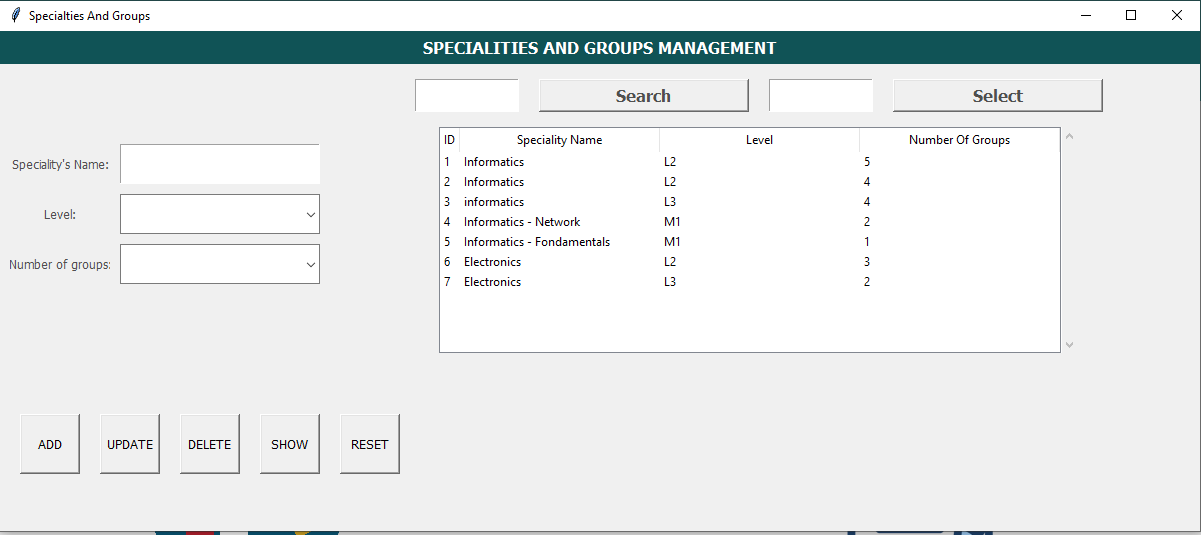
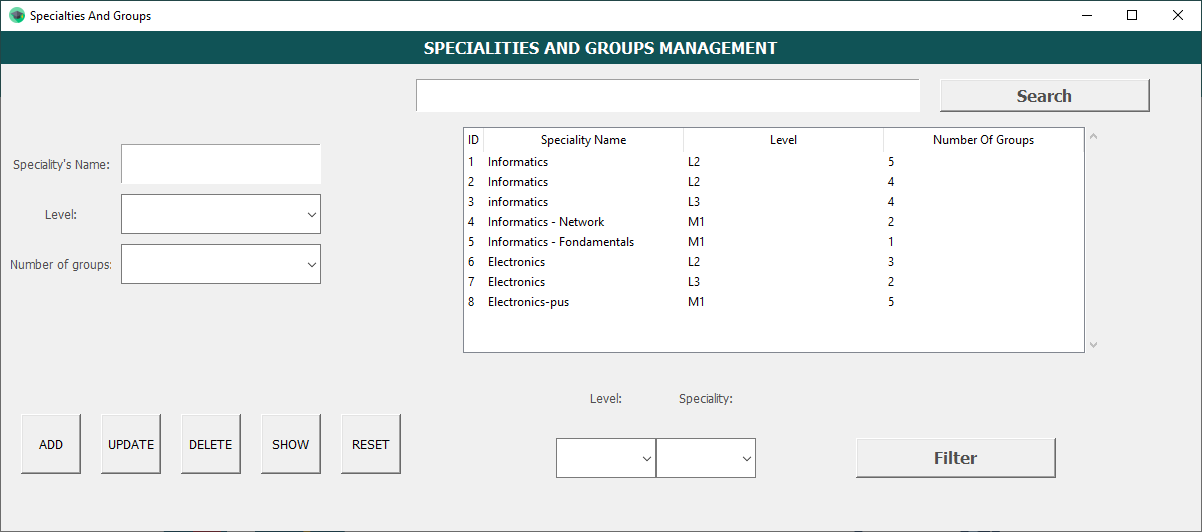
database output relations

diff --git a/exam.py b/exam.py
@@ -80,15 +80,36 @@ class exam:
         self.time = StringVar()
 
 
+        mydb=mc.connect(
+                host='localhost',
+                user='root',
+                password='',
+                database='university'
+        )
+        mycursor=mydb.cursor()
+        sql="SELECT specialityname FROM speciality"
+        mycursor.execute(sql)
+        specialityvalues=mycursor.fetchall()
+        specialityvalues=list(set(specialityvalues))
+
+        mycursor1=mydb.cursor()
+        sql1="SELECT CONCAT(firstname,' ', lastname) FROM staff where job = 'Professor' OR job= 'Professor-grade1' OR  job='Professor-grade2'"
+        mycursor1.execute(sql1)
+        staffvalues=mycursor1.fetchall()
+        staffvalues=list(set(staffvalues))
+        staffvalues = [str(element).replace("(", "").replace(")", "").replace("'", "").replace(",", "") for element in staffvalues]
+        
+
+
 
         ####################   ENTRIES    ######################
-        self.SpecialityEntry = ttk.Combobox(self.frameleft, values=["S1","S2","S3"],state='readonly', textvariable=self.speciality)
+        self.SpecialityEntry = ttk.Combobox(self.frameleft, values=specialityvalues,state='readonly', textvariable=self.speciality)
         self.SpecialityEntry.place(x=170, y=30, width=200, height=40)
 
         self.LevelEntry = ttk.Combobox(self.frameleft, values=["L1","L2","L3","M1","M2","Phd"],state='readonly', textvariable=self.level)
         self.LevelEntry.place(x=170, y=80, width=200, height=40)
 
-        self.GroupEntry = Entry(self.frameleft, fg='#4F4F4F', font=('tahoma', 9), textvariable=self.group)
+        self.GroupEntry = ttk.Combobox(self.frameleft,values=["1","2","3"],state='readonly', textvariable=self.group)
         self.GroupEntry.place(x=170, y=130, width=200, height=40)
         
         self.ClassroomEntry = Entry(self.frameleft, fg='#4F4F4F', font=('tahoma', 9), textvariable=self.classroom)
@@ -97,10 +118,10 @@ class exam:
         self.ModuleEntry = Entry(self.frameleft, fg='#4F4F4F', font=('tahoma', 9), textvariable=self.module)
         self.ModuleEntry.place(x=170, y=230, width=200, height=40)
         
-        self.ProfEntry = Entry(self.frameleft, fg='#4F4F4F', font=('tahoma', 9), textvariable=self.prof)
+        self.ProfEntry = ttk.Combobox(self.frameleft, values=staffvalues,state='readonly', textvariable=self.prof)
         self.ProfEntry.place(x=170, y=280, width=200, height=40)
 
-        self.ResProfEntry = Entry(self.frameleft, fg='#4F4F4F', font=('tahoma', 9), textvariable=self.resposibleprof)
+        self.ResProfEntry = ttk.Combobox(self.frameleft, values=staffvalues,state='readonly', textvariable=self.resposibleprof)
         self.ResProfEntry.place(x=170, y=330, width=200, height=40)
         
         self.DateEntry = DateEntry(self.frameleft ,textvariable=self.date, date_pattern="yyyy-mm-dd",mindate=datetime.date.today())
@@ -109,6 +130,10 @@ class exam:
         self.TimeEntry = ttk.Combobox(self.frameleft, values=["", "8:00", "9:00", "10:00","11:00","12:00","13:00","14:00","15:00","16:00","17:00"],
                                       state='readonly', textvariable=self.time)
         self.TimeEntry.place(x=170, y=430, width=200,height=30)
+
+
+        mydb.commit()
+        mydb.close()
 
 
 

diff --git a/student.py b/student.py
@@ -69,6 +69,22 @@ class student:
         self.speciality = StringVar()
         self.group = StringVar()
 
+        mydb=mc.connect(
+                host='localhost',
+                user='root',
+                password='',
+                database='university'
+        )
+        mycursor=mydb.cursor()
+        sql="SELECT specialityname FROM speciality"
+        mycursor.execute(sql)
+        specialityvalues=mycursor.fetchall()
+        specialityvalues=list(set(specialityvalues))
+        specialityvalues = [str(element).replace("(", "").replace(")", "").replace("'", "").replace(",", "") for element in specialityvalues]
+
+
+
+
 
 
         #################   ENTRIES #######################
@@ -91,11 +107,15 @@ class student:
         self.LevelEntry = ttk.Combobox(self.frameleft, values=["L1","L2","L3","M1","M2","Phd"],state='readonly',textvariable=self.level)
         self.LevelEntry.place(x=120, y=300, width=200, height=40)
 
-        self.SpecialityEntry = ttk.Combobox(self.frameleft, values=["S1","S2","S3"],state='readonly',textvariable=self.speciality)
+        self.SpecialityEntry = ttk.Combobox(self.frameleft, values=specialityvalues,state='readonly',textvariable=self.speciality)
         self.SpecialityEntry.place(x=120, y=350, width=200, height=40)
 
         self.GroupEntry = ttk.Combobox(self.frameleft,values=["1","2","3"],state='readonly',textvariable=self.group)
         self.GroupEntry.place(x=120,y=400,width=200,height=40)
+
+
+        mydb.commit()
+        mydb.close()
 
 
 
@@ -199,7 +219,7 @@ class student:
         self.LevelEntrySelect = ttk.Combobox(self.framerightbuttom, values=["L1","L2","L3","M1","M2","Phd"],state='readonly',textvariable=self.levelselect)
         self.LevelEntrySelect.place(x=150, y=80, width=100, height=40)
 
-        self.SpecialityEntrySelect = ttk.Combobox(self.framerightbuttom, values=["S1","S2","S3"],state='readonly',textvariable=self.specialityselect)
+        self.SpecialityEntrySelect = ttk.Combobox(self.framerightbuttom, values=specialityvalues,state='readonly',textvariable=self.specialityselect)
         self.SpecialityEntrySelect.place(x=250, y=80, width=100, height=40)
 
         self.GroupEntrySelect = ttk.Combobox(self.framerightbuttom,values=["1","2","3"],state='readonly',textvariable=self.groupselect)

diff --git a/department.py b/department.py
@@ -137,6 +137,20 @@ class Department:
         self.framerightbuttom=Frame(self.frameright,height=200,pady=5,padx=5)
         self.framerightbuttom.pack(fill=X)
 
+
+        mydb=mc.connect(
+                host='localhost',
+                user='root',
+                password='',
+                database='university'
+        )
+        mycursor=mydb.cursor()
+        sql="SELECT specialityname FROM speciality"
+        mycursor.execute(sql)
+        specialityvalues=mycursor.fetchall()
+        specialityvalues=list(set(specialityvalues))
+        string_list = [str(element).replace("(", "").replace(")", "").replace("'", "").replace(",", "") for element in specialityvalues]
+
         #################   LABELS #######################
         self.LevelSelect = Label(self.framerightbuttom,text="Level:",fg='#4F4F4F',font=('tahoma',9))
         self.LevelSelect.place(x=150, y=20, width=100, height=40)
@@ -156,11 +170,14 @@ class Department:
         self.LevelEntrySelect = ttk.Combobox(self.framerightbuttom, values=["L1","L2","L3","M1","M2","Phd"],state='readonly',textvariable=self.levelselect)
         self.LevelEntrySelect.place(x=150, y=80, width=100, height=40)
 
-        self.SpecialityEntrySelect = ttk.Combobox(self.framerightbuttom, values=["S1","S2","S3"],state='readonly',textvariable=self.specialityselect)
+        self.SpecialityEntrySelect = ttk.Combobox(self.framerightbuttom, values = string_list,state='readonly',textvariable=self.specialityselect)
         self.SpecialityEntrySelect.place(x=250, y=80, width=100, height=40)
 
         self.buttonselect = Button(self.framerightbuttom,command=self.filter, text='Filter', fg='#4F4F4F', font=('tahoma', 12, 'bold'),width=20)
         self.buttonselect.place(x=450,y=80,width=200,height=40)
+
+        mydb.commit()
+        mydb.close()
     
     
     
